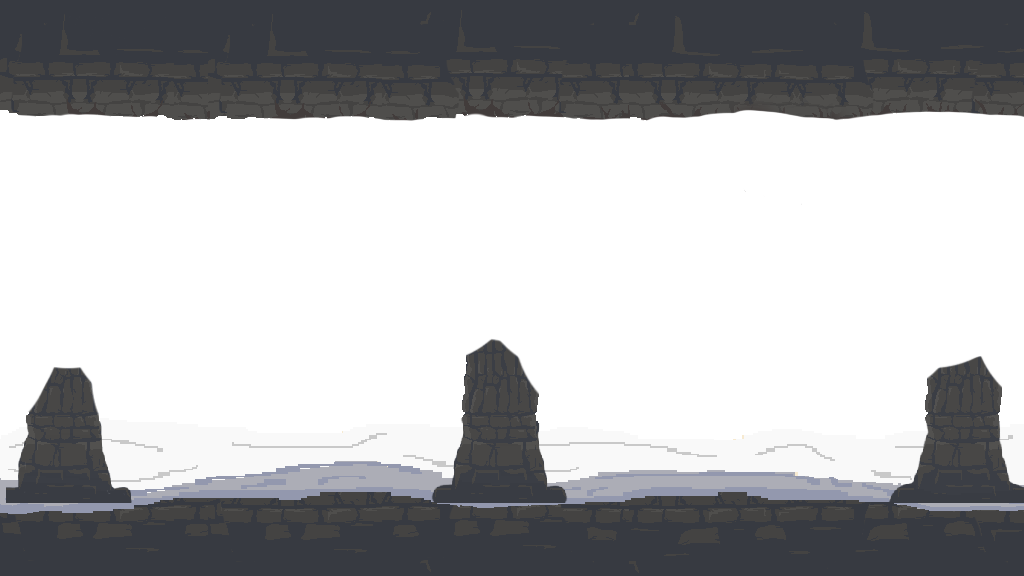
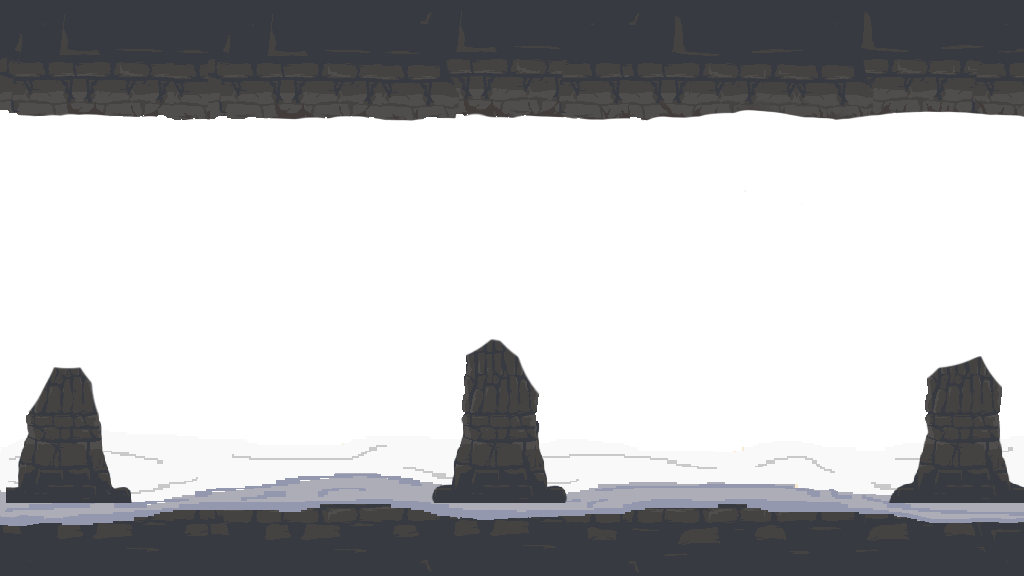
Foreground Weather Changing

Changed region(s): [[0.0, 0.75, 1.0, 0.9375]]

diff --git a/Reverse/Assets/Scripts/WeatherSystem/UpdateForeground.cs b/Reverse/Assets/Scripts/WeatherSystem/UpdateForeground.cs
@@ -1,0 +1,34 @@
+using System.Collections;
+using System.Collections.Generic;
+using UnityEngine;
+
+namespace Weather
+{
+    public class UpdateForeground : MonoBehaviour
+    {
+        State weatherState;
+        private EventBinding<WeatherChanged> weatherChangedEventBinding;
+
+        [SerializeField] GameObject foregroundObject;
+        [SerializeField] Sprite foregroundDefault;
+        [SerializeField] Sprite foregroundSnowy;
+        [SerializeField] Sprite foregroundRainy;
+
+        private void OnEnable()
+        {
+            weatherChangedEventBinding = new EventBinding<WeatherChanged>((weatherChanged) =>
+                {
+                    // Lambda Function: Updates the foreground depending on what the current weather is. 
+                    weatherState = weatherChanged.WeatherParameters.weatherState;
+                    if (weatherState == State.SnowStorm || weatherState == State.Snowy) foregroundObject.GetComponent<SpriteRenderer>().sprite = foregroundSnowy;
+                    else if (weatherState == State.RainStorm || weatherState == State.Rainy) foregroundObject.GetComponent<SpriteRenderer>().sprite = foregroundRainy;
+                    else foregroundObject.GetComponent<SpriteRenderer>().sprite = foregroundDefault;
+                });
+            EventBus<WeatherChanged>.Register(weatherChangedEventBinding);
+        }
+        private void OnDisable()
+        {
+            EventBus<WeatherChanged>.Deregister(weatherChangedEventBinding);
+        }
+    }
+}

diff --git a/Reverse/Assets/Scripts/WeatherSystem/WeatherState.cs b/Reverse/Assets/Scripts/WeatherSystem/WeatherState.cs
@@ -2,17 +2,6 @@ using UnityEngine;
 
 namespace Weather
 {
-    public enum State
-    {
-        Sunny,
-        LightRain,
-        Rainy,
-        RainStorm,
-        LightSnow,
-        Snowy,
-        SnowStorm
-
-    }
     public class WeatherState : MonoBehaviour
     {
         private int currentStateIndex;
@@ -67,7 +56,7 @@ namespace Weather
             currentStateIndex = Random.Range(0, weatherStateOrder.Length);
 
             print("The Weather is now " + weatherStateOrder[currentStateIndex]);
-            
+
             EventBus<WeatherChanged>.Raise(new WeatherChanged()
             {
                 WeatherParameters = weatherStateOrder[currentStateIndex]

diff --git a/Reverse/Assets/Scripts/WeatherSystem/State.cs b/Reverse/Assets/Scripts/WeatherSystem/State.cs
@@ -1,0 +1,17 @@
+using System.Collections;
+using System.Collections.Generic;
+using UnityEngine;
+
+namespace Weather
+{
+    public enum State
+    {
+        Sunny,
+        LightRain,
+        Rainy,
+        RainStorm,
+        LightSnow,
+        Snowy,
+        SnowStorm
+    }
+}
